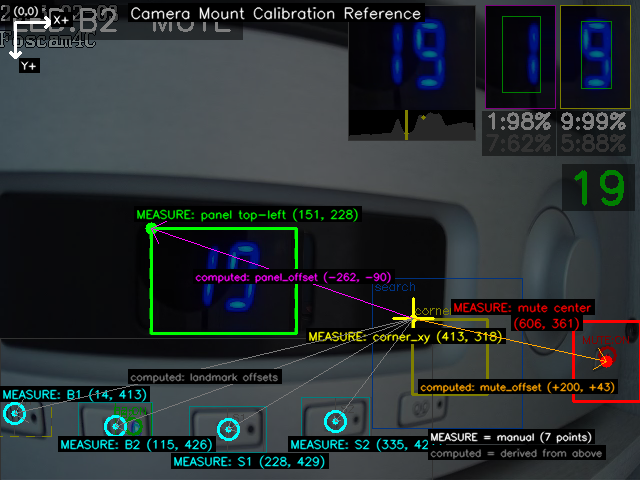
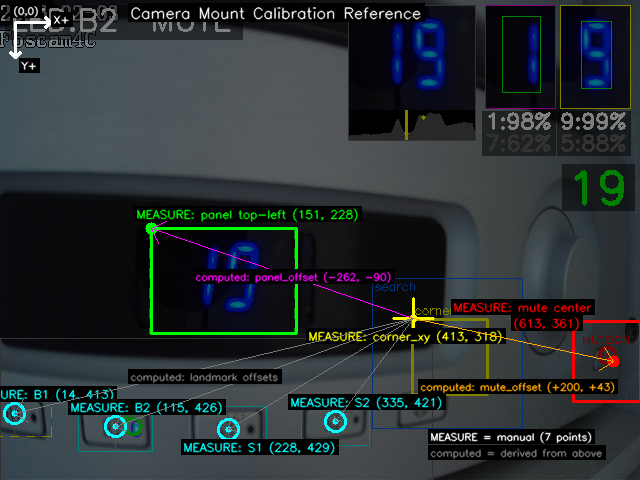
Make gen_annotated.py self-contained — reads positions from camera_mount.json
Accepts frame path as argument, no hardcoded coordinates or paths to edit.
Moved from .claude/tmp/ to scripts/. Updated DESIGN.md usage instructions.

diff --git a/scripts/gen_annotated.py b/scripts/gen_annotated.py
@@ -1,0 +1,148 @@
+#!/usr/bin/env python3
+"""Generate annotated reference image for camera calibration docs.
+
+Reads all positions from camera_mount.json — no hardcoded coordinates.
+
+Usage:
+    python scripts/gen_annotated.py path/to/frame.png
+    python scripts/gen_annotated.py path/to/debug_overlay.png --right-half
+"""
+import cv2
+import json
+import numpy as np
+import os
+import sys
+
+SCRIPT_DIR = os.path.dirname(os.path.abspath(__file__))
+PROJECT_ROOT = os.path.dirname(SCRIPT_DIR)
+MOUNT_PATH = os.path.join(PROJECT_ROOT, 'calibration', 'camera_mount.json')
+OUT_PATH = os.path.join(PROJECT_ROOT, 'calibration', 'camera_mount_reference.png')
+
+# Parse args
+right_half = '--right-half' in sys.argv
+args = [a for a in sys.argv[1:] if not a.startswith('--')]
+if not args:
+    print(f"Usage: python {sys.argv[0]} <frame.png> [--right-half]")
+    print("  --right-half  Use right half of a debug overlay image")
+    sys.exit(1)
+
+# Load source frame
+full = cv2.imread(args[0])
+if full is None:
+    print(f"Error: Cannot read {args[0]}")
+    sys.exit(1)
+
+if right_half:
+    frame = full[:, full.shape[1] // 2:, :]
+else:
+    frame = full
+
+# Load positions from camera_mount.json
+with open(MOUNT_PATH) as f:
+    mount = json.load(f)
+
+corner_xy = tuple(mount['corner_xy'])
+button_centers = {k: tuple(v) for k, v in mount['button_centers'].items()}
+panel_rect = tuple(mount['panel_rect'])  # x, y, w, h
+mute_center = tuple(mount['mute_center'])
+mute_region = tuple(mount['mute_region'])  # x1, y1, x2, y2
+
+# Compute offsets for labels
+cx, cy = corner_xy
+px, py, pw, ph = panel_rect
+panel_offset = (px - cx, py - cy)
+mute_offset = (mute_center[0] - cx, mute_center[1] - cy)
+
+# Darken frame so annotations stand out
+overlay = (frame * 0.50).astype(np.uint8)
+
+CYAN = (255, 255, 0)
+YELLOW = (0, 255, 255)
+GREEN = (0, 255, 0)
+RED = (0, 0, 255)
+MAGENTA = (255, 0, 255)
+WHITE = (255, 255, 255)
+ORANGE = (0, 165, 255)
+GRAY = (120, 120, 120)
+
+font = cv2.FONT_HERSHEY_SIMPLEX
+
+
+def put_label(img, text, pos, color=WHITE, size=0.42, thickness=1):
+    """Draw text with dark background."""
+    (tw, th), _ = cv2.getTextSize(text, font, size, thickness)
+    x, y = pos
+    cv2.rectangle(img, (x - 2, y - th - 3), (x + tw + 2, y + 3), (0, 0, 0), -1)
+    cv2.putText(img, text, (x, y), font, size, color, thickness, cv2.LINE_AA)
+
+
+# ── Coordinate axes (top-left) ──
+ax_x, ax_y = 15, 22
+ax_len = 35
+cv2.arrowedLine(overlay, (ax_x, ax_y), (ax_x + ax_len, ax_y), WHITE, 2, tipLength=0.2)
+cv2.arrowedLine(overlay, (ax_x, ax_y), (ax_x, ax_y + ax_len), WHITE, 2, tipLength=0.2)
+put_label(overlay, 'X+', (ax_x + ax_len + 3, ax_y + 1), WHITE, size=0.35)
+put_label(overlay, 'Y+', (ax_x + 6, ax_y + ax_len + 12), WHITE, size=0.35)
+put_label(overlay, '(0,0)', (ax_x - 2, ax_y - 8), WHITE, size=0.32)
+
+# Title
+put_label(overlay, 'Camera Mount Calibration Reference', (130, 18), WHITE, size=0.5, thickness=1)
+
+# ── MANDATORY: 7 points to measure (bright, solid) ──
+
+# 1. Corner (yellow crosshair)
+cross_sz = 20
+cv2.line(overlay, (cx - cross_sz, cy), (cx + cross_sz, cy), YELLOW, 2)
+cv2.line(overlay, (cx, cy - cross_sz), (cx, cy + cross_sz), YELLOW, 2)
+cv2.circle(overlay, (cx, cy), 4, YELLOW, -1)
+put_label(overlay, f'MEASURE: corner_xy ({cx}, {cy})', (cx - 105, cy + 22), YELLOW, size=0.38)
+
+# 2. Panel top-left (green dot)
+cv2.rectangle(overlay, (px, py), (px + pw, py + ph), GREEN, 2)
+cv2.circle(overlay, (px, py), 6, GREEN, -1)
+put_label(overlay, f'MEASURE: panel top-left ({px}, {py})', (px - 15, py - 10), GREEN, size=0.38)
+
+# 3. Button centers B1, B2, S1, S2 (cyan)
+for name in ('B1', 'B2', 'S1', 'S2'):
+    bx, by = button_centers[name]
+    cv2.circle(overlay, (bx, by), 10, CYAN, 2)
+    cv2.circle(overlay, (bx, by), 3, CYAN, -1)
+
+for name in ('B1', 'B2', 'S1', 'S2'):
+    bx, by = button_centers[name]
+    label_y = by + 22 if name in ('S1',) else by - 15
+    put_label(overlay, f'MEASURE: {name} ({bx}, {by})', (bx - 45, label_y), CYAN, size=0.38)
+
+# 4. Mute LED center (red dot)
+mx1, my1, mx2, my2 = mute_region
+mcx, mcy = mute_center
+cv2.rectangle(overlay, (mx1, my1), (mx2, my2), RED, 2)
+cv2.circle(overlay, (mcx, mcy), 6, RED, -1)
+put_label(overlay, 'MEASURE: mute center', (mx1 - 120, my1 - 10), RED, size=0.38)
+put_label(overlay, f'({mcx}, {mcy})', (mx1 - 60, my1 + 6), RED, size=0.38)
+
+# ── COMPUTED: offsets derived from measurements (dim arrows) ──
+
+# Panel offset arrow
+cv2.arrowedLine(overlay, corner_xy, (px, py), MAGENTA, 1, tipLength=0.06)
+put_label(overlay, f'computed: panel_offset ({panel_offset[0]:+d}, {panel_offset[1]:+d})',
+          (195, 280), MAGENTA, size=0.33)
+
+# Mute offset arrow
+cv2.arrowedLine(overlay, corner_xy, (mcx, mcy), ORANGE, 1, tipLength=0.08)
+put_label(overlay, f'computed: mute_offset ({mute_offset[0]:+d}, {mute_offset[1]:+d})',
+          (420, 390), ORANGE, size=0.33)
+
+# Landmark offset arrows (corner to each button)
+for name, (bx, by) in button_centers.items():
+    cv2.arrowedLine(overlay, corner_xy, (bx, by), GRAY, 1, tipLength=0.04)
+
+put_label(overlay, 'computed: landmark offsets', (130, 380), GRAY, size=0.33)
+
+# ── Legend (bottom-right) ──
+lx, ly = 430, 440
+put_label(overlay, 'MEASURE = manual (7 points)', (lx, ly), WHITE, size=0.33)
+put_label(overlay, 'computed = derived from above', (lx, ly + 16), GRAY, size=0.33)
+
+cv2.imwrite(OUT_PATH, overlay)
+print(f"Saved: {OUT_PATH}")

diff --git a/DESIGN.md b/DESIGN.md
@@ -321,6 +321,7 @@ reads the existing file to preserve the panel section when only button zones cha
 │   ├── analyze_skip.py        # Frame-skip threshold analysis
 │   ├── timing_analysis.py     # Pipeline and skip benchmarking
 │   ├── update_device_model.py # Compute device_model.json from camera_mount.json
+│   ├── gen_annotated.py       # Generate camera_mount_reference.png
 │   └── gen_perspective_variants.py  # Generate distorted test images
 │
 ├── foscam-c2/                 # Reference camera snapshots
@@ -653,6 +654,16 @@ The corner template is a small image patch used to locate the display in each fr
 The annotated image below shows all positions that need to be measured. See `calibration/camera_mount_reference.png` for the full-resolution version.
 
 ![Camera mount calibration reference](calibration/camera_mount_reference.png)
+
+**Regenerating the reference image:** The script reads all positions from `camera_mount.json` automatically. Save a frame (`s` in display mode), then:
+
+```bash
+# From a raw 640x480 frame
+python scripts/gen_annotated.py logs/saved_frame.png
+
+# From a debug overlay image (uses right half)
+python scripts/gen_annotated.py logs/manual_*.png --right-half
+```
 
 **7 mandatory measurements** (bright labels prefixed "MEASURE:"):
 
